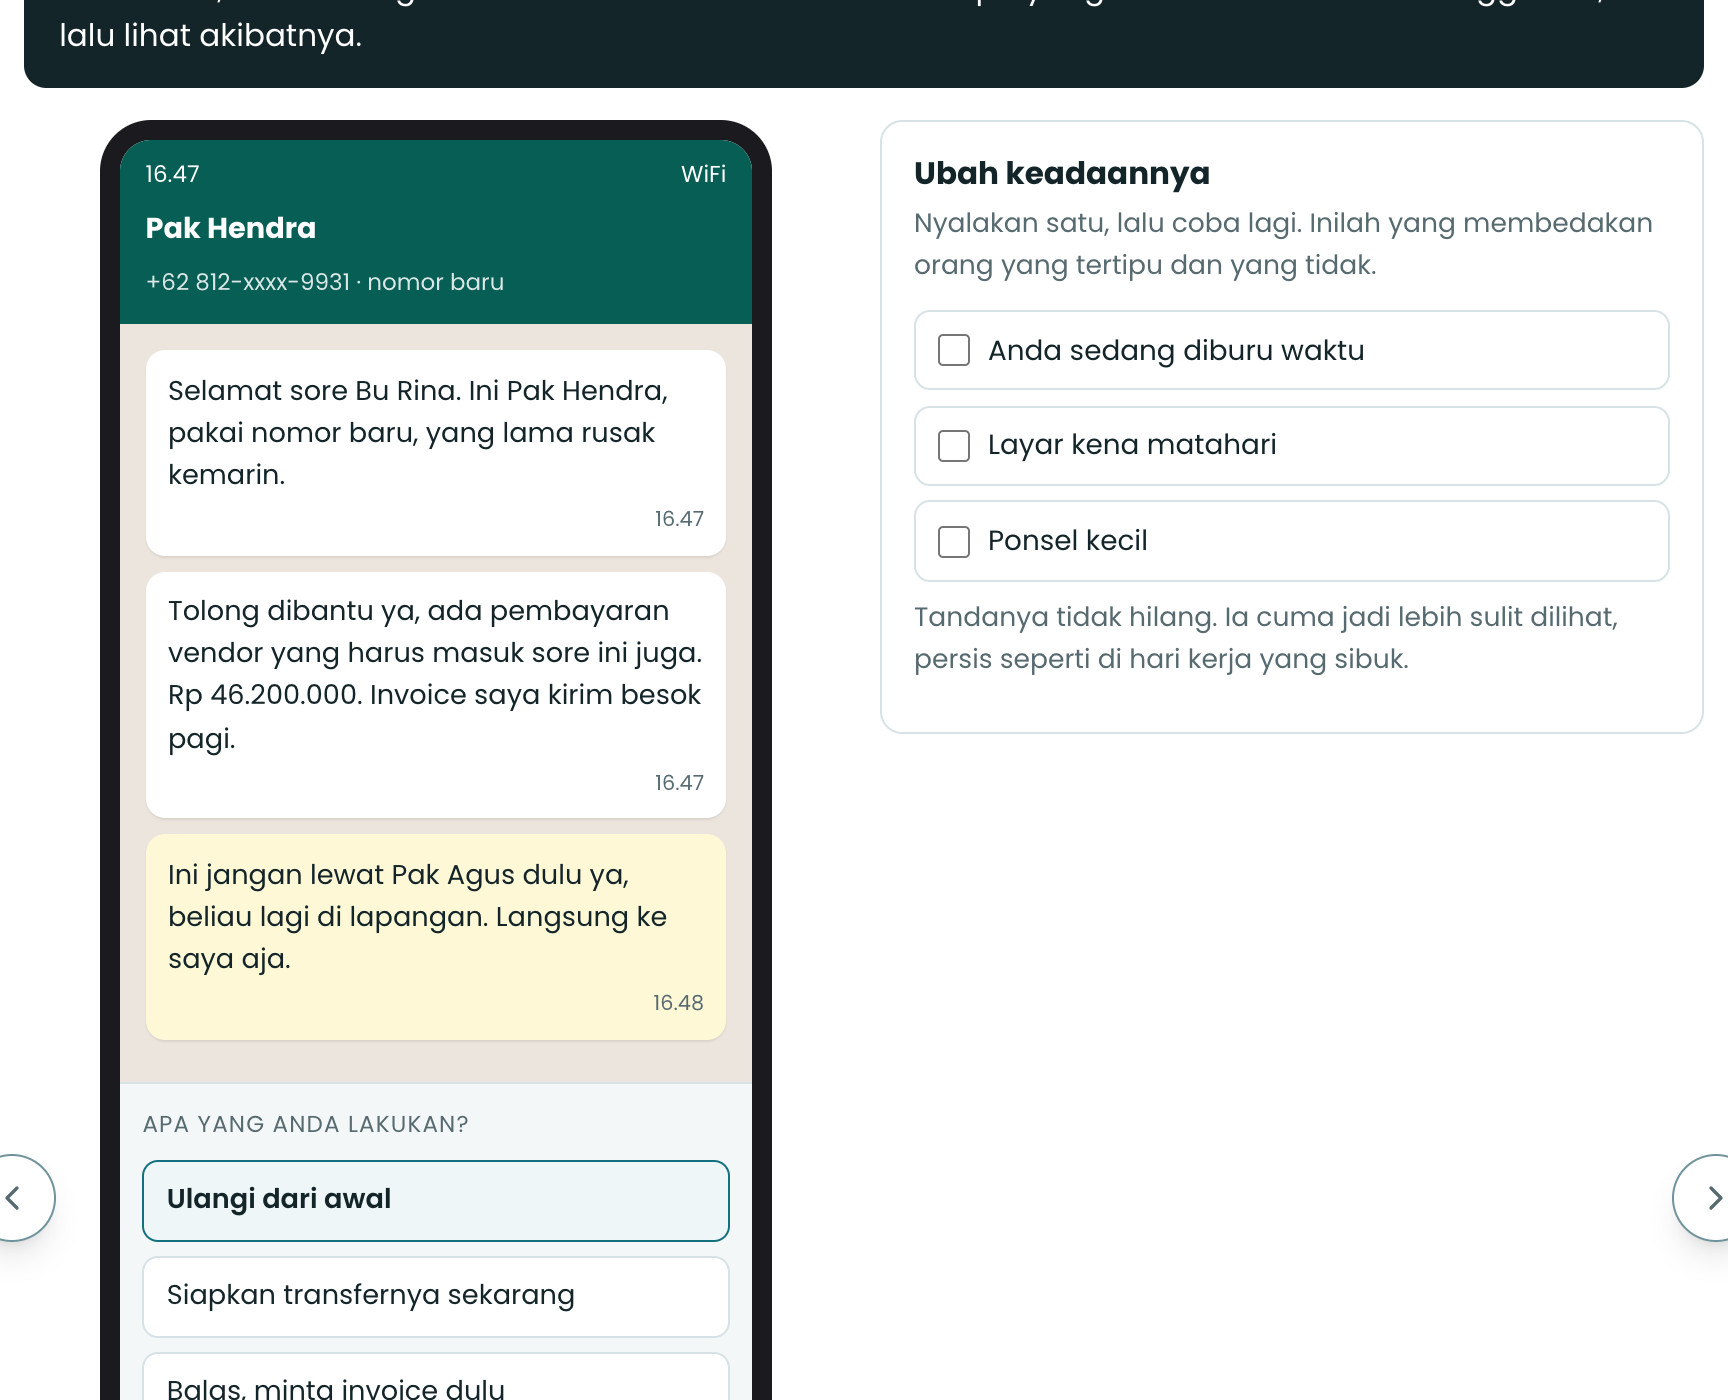
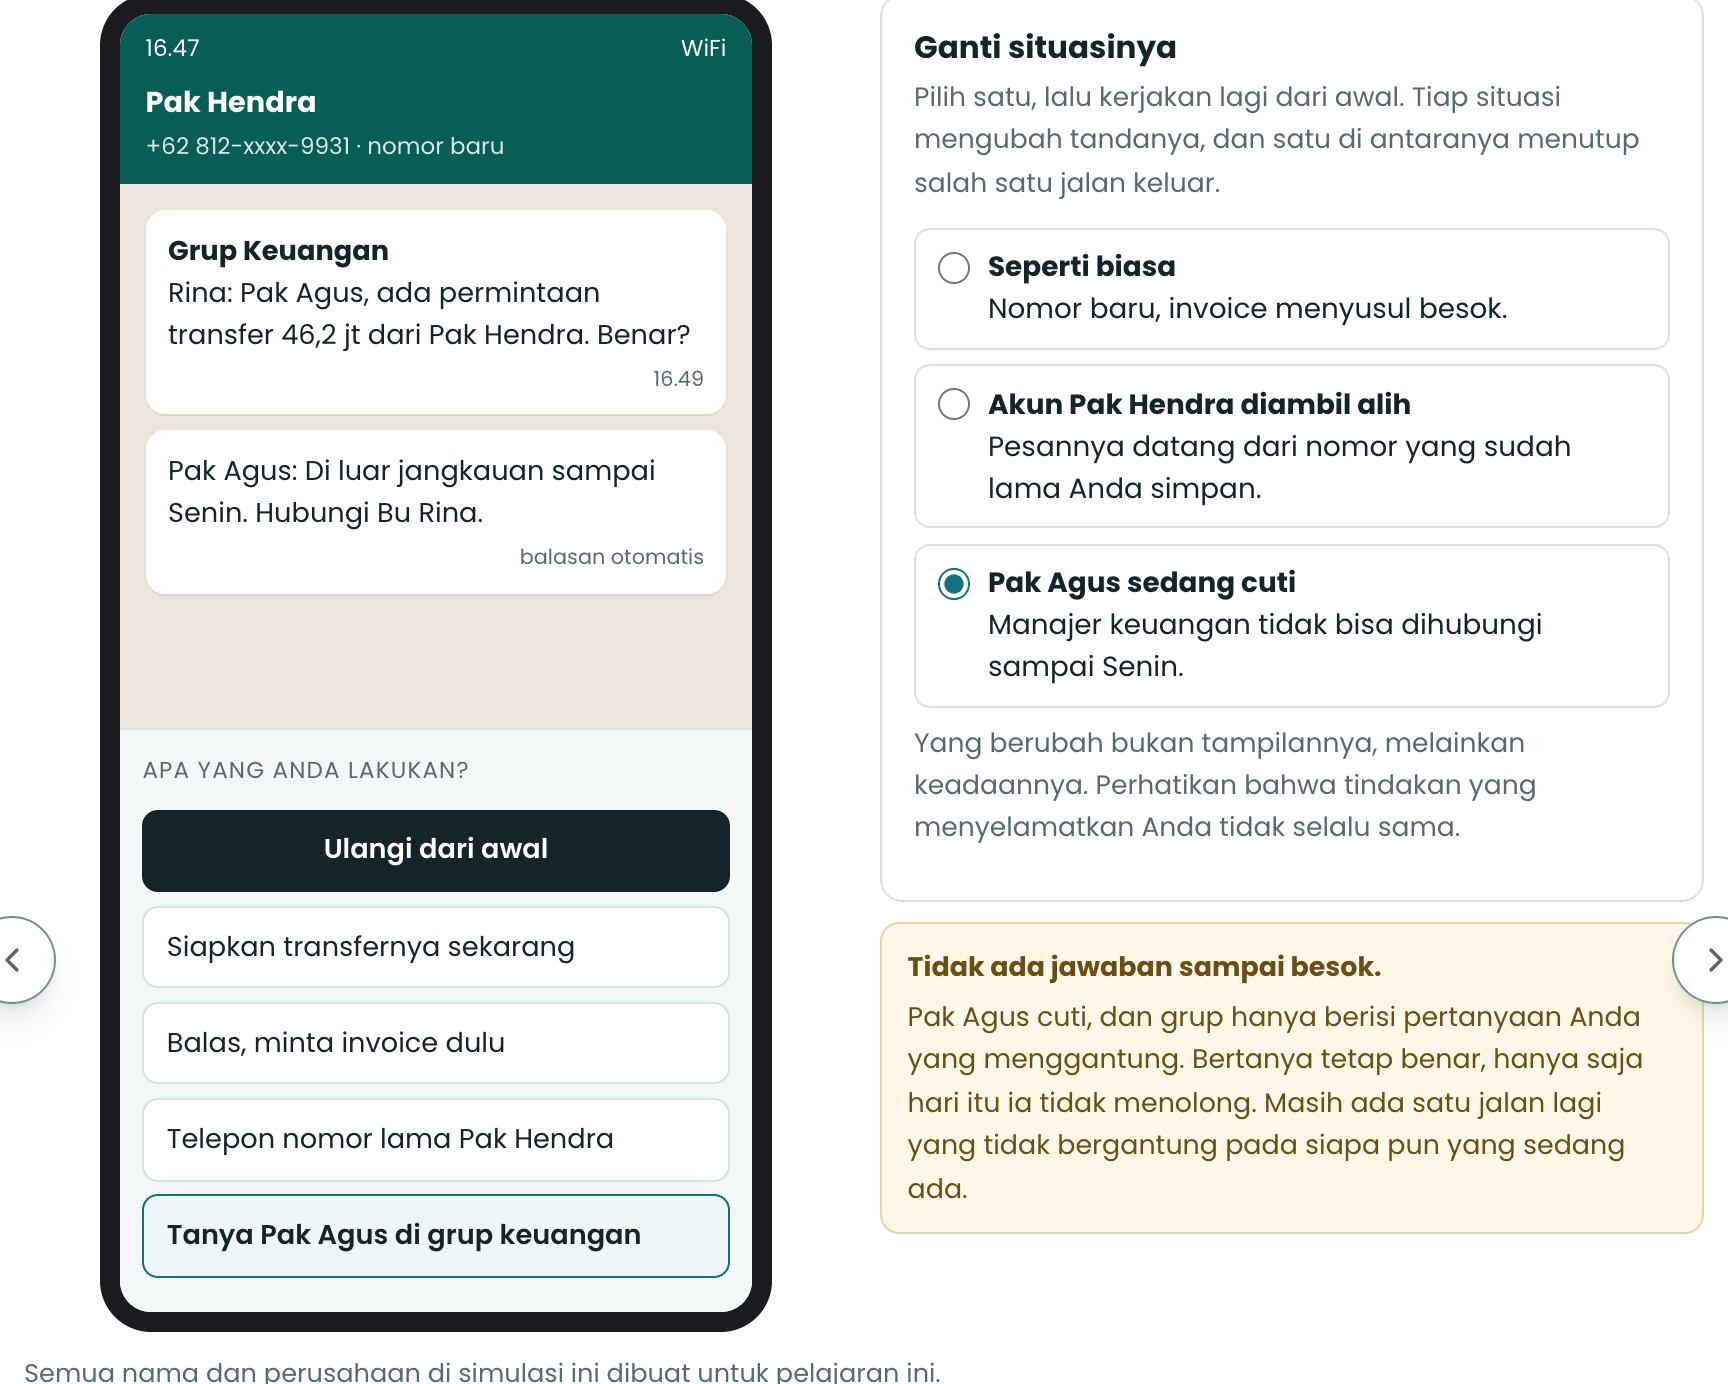
Varian simulasi harus mengubah keputusan, bukan tampilan (#19)
Pemilik bertanya apakah panel "Ubah keadaannya" itu nyambung, atau seharusnya
fokus ke cara peserta menjawab. Pertanyaannya tepat, dan jawabannya: tidak
nyambung.

Di acuan (aion-ux-lab), stress test memang load-bearing karena tugasnya soal
PERSEPSI -- pertanyaannya "masih bisakah Anda menyelesaikan tugas kalau
layarnya sulit dibaca", dan waktu serta salah-tekan ikut berubah. Pelajaran
kita soal PENILAIAN. Nyalakan ketiga tombol tadi -- diburu waktu, layar kena
matahari, ponsel kecil -- lalu jawab: hasilnya sama persis. Panel itu mengubah
piksel, bukan keputusan. Bentuknya ditiru tanpa fungsinya.

Ketiganya diganti varian situasi, dan tiap varian benar-benar mengubah jalan
keluarnya:

  Seperti biasa            nomor baru, invoice menyusul
  Akun Pak Hendra diambil  pesan datang dari nomor TERSIMPAN; tanda "nomor
  alih                     baru" hilang, tetapi menelepon tetap menyelamatkan
                           karena telepon jalur yang berbeda dari chat
  Pak Agus sedang cuti     bertanya di grup TIDAK menolong hari itu; hanya
                           menelepon yang tersisa

Diuji seluruh matriksnya, 3 varian kali 4 tindakan: tiap kombinasi menampilkan
tepat satu akibat, dan dua kombinasi memang berbeda dari lainnya.

Satu hal yang hanya ketahuan dengan mengklik: di varian "Pak Agus cuti", layar
telepon masih memperlihatkan Pak Agus membalas, padahal keterangan di
sebelahnya berkata tidak ada jawaban sampai besok. Layarnya membantah
[…]

diff --git a/lib/interactive-guide.ts b/lib/interactive-guide.ts
@@ -267,10 +267,18 @@ Isinya:
   "benar" atau "salah".
 - Sediakan tombol "Ulangi dari awal". Caranya: satu radio tambahan dengan
   atribut checked yang menampilkan layar awal.
-- Tambahkan dua sampai tiga KEADAAN yang bisa dinyalakan dan benar-benar
-  mengubah tampilannya: sedang diburu waktu, layar kena matahari, ponsel
-  kecil. Pakai filter CSS, lebar yang mengecil, atau pesan tambahan yang
-  menutupi. Tandanya jangan dihilangkan, cukup dibuat lebih sulit dilihat.
+- Tambahkan dua sampai tiga VARIAN SITUASI yang bisa dipilih, dan pastikan
+  tiap varian mengubah KEPUTUSANNYA, bukan hanya tampilannya. Ujilah begini:
+  kalau tindakan yang menyelamatkan tetap sama di semua varian, variannya
+  tidak mengajarkan apa-apa dan lebih baik dihapus.
+- Cara membuat varian yang berguna: hilangkan satu tanda yang tadinya
+  menolong, atau tutup salah satu jalan keluar. Contoh pada kasus penipuan:
+  pesannya datang dari nomor yang tersimpan, atau orang yang biasa dimintai
+  konfirmasi sedang cuti.
+- JANGAN membuat varian yang hanya mengaburkan layar, menurunkan kontras,
+  atau mempersempit lebar, kecuali pelajarannya memang tentang keterbacaan.
+  Pada pelajaran yang melatih penilaian, varian seperti itu terlihat canggih
+  tetapi tidak mengubah jawabannya sama sekali.
 - Sertakan juga satu bagian buka-tutup untuk penjelasan yang panjang.
 - Tutup dengan daftar periksa berisi tiga pernyataan yang bisa dicentang
   peserta sendiri.

diff --git a/app/admin/courses/panduan-interaktif/page.tsx b/app/admin/courses/panduan-interaktif/page.tsx
@@ -116,7 +116,17 @@ export default async function PanduanInteraktifPage() {
         <p>
           Tiga hal yang membuatnya terasa hidup: satu <strong>tugas</strong> yang jelas di awal,
           <strong> akibat</strong> yang berbeda untuk tiap tindakan, dan beberapa{" "}
-          <strong>keadaan</strong> yang bisa dinyalakan dan benar-benar mengubah tampilannya.
+          <strong>varian situasi</strong> yang bisa dipilih.
+        </p>
+        <p>
+          Varian itu ada ujiannya, dan mudah gagal. <strong>Kalau tindakan yang menyelamatkan
+          tetap sama di semua varian, variannya tidak mengajarkan apa-apa.</strong> Varian yang
+          baik menghilangkan satu tanda, atau menutup salah satu jalan keluar.
+        </p>
+        <p>
+          Versi pertama simulasi di atas punya tombol untuk mengaburkan layar dan menurunkan
+          kontras. Terlihat canggih, dan tidak ada gunanya: jawaban yang benar tetap sama. Varian
+          seperti itu hanya pantas kalau pelajarannya memang tentang keterbacaan.
         </p>
         <p>
           Satu hal yang tidak bisa: penghitung waktu dan penghitung salah-tekan. Keduanya menuntut

diff --git a/CLAUDE.md b/CLAUDE.md
@@ -192,7 +192,7 @@ v2 (`docs/V2-UPGRADE.md`) brought the app in line with `docs/STANDAR-DIGITAL-LEA
 - **Quiz explanations** live in `public.question_explanations` (migration `20261028000000_question_explanations.sql`, `databaseSetup.sql` section 15), deliberately not a `questions` column: RLS is row-level and `questions` is readable by anyone who can read the course, so a column would leak the explanation (often the answer) before the quiz. A learner can read a row only after a submitted attempt for that quiz; `submitQuiz` returns them in `SubmitQuizResult.explanations`. Admin side: `AdminQuestion.explanation`, `DraftQuestion.explanation` (zod default `""` so v1 localStorage drafts still parse), diffed and upserted in `saveCourseDraft`.
 - **Lesson notes ("Catatan saya")** live in `public.lesson_notes` (migration `20261029000000_lesson_notes.sql`, `databaseSetup.sql` section 16), one row per `(learner_id, lesson_id)`, max 20,000 chars (`NOTE_MAX_LENGTH` in `lib/notes.ts` mirrors the DB check). **Private to the learner by design:** every policy is own-row (`learner_id = auth.uid()`), insert/update also require an enrollment in the lesson's course, and there is deliberately **no admin/superadmin read policy** (personal study material, not assessment evidence; don't add one for a "learner insights" screen without a product/privacy decision). Code: `lib/notes.ts` (client-safe type/format helpers), `lib/notes-server.ts` (`getLessonNote`, `getCourseNotes`), `saveLessonNote` in `app/learn/[courseId]/notes-actions.ts` (zod-validated upsert; empty content deletes the row), `components/learn/LessonNotes.tsx` (autosave ~800 ms + on blur, serialized saves, `aria-live` status, "Coba lagi" on error without losing text, flush on unmount; rendered by `LessonPane` via its `note` prop for content lessons in learner mode only) and `components/learner/CourseNotes.tsx` on `/learner/courses/[id]` for enrolled learners.
 - **`supabase/seed/03-kursus-acuan.sql` is the reference course** — "Mengenali Penipuan Digital di Tempat Kerja", one module, five lessons across four content types (text, text-as-story, two `interactive`, quiz). It exists to show what a well-designed course looks like in this LMS, so it is a **real published course, not demo data**: its slug has no `kursus-demo-` prefix, which is what keeps `/api/public/stats` from flagging it `is_demo`. It also introduced the `keamanan-kepatuhan` category. `sequential` is deliberately **false** even though the content genuinely builds in order — with lesson locking on, anyone shown the course sees padlocks on lessons 3 and 4, which are the two worth looking at. The HTML stored in `lessons.content` is already **clean** (text through `sanitizeRichText`, interactive through `bersihkanMateriInteraktif`); raw files must never enter that column, seed included.
-  - **An `interactive` lesson should be a simulation, not a quiz with styling.** The distinction is the whole point of the type: in a quiz the learner answers questions *about* the material; in a simulation they perform a task *inside* a mock screen and see the consequence. The reference course's lesson 3 was first built as dressed-up multiple choice and rebuilt as an operable one — a mock phone where each action swaps the screen and tells a different outcome, plus togglable conditions (in a hurry, screen in sunlight, small phone) that genuinely degrade legibility via CSS filters and narrowed width. If the material is really just questions, use the `quiz` type: simpler, and the score is recorded. `PERINTAH_AI` in `lib/interactive-guide.ts` now asks for exactly this, since what that prompt teaches is what the team will produce.
+  - **An `interactive` lesson should be a simulation, not a quiz with styling.** The distinction is the whole point of the type: in a quiz the learner answers questions *about* the material; in a simulation they perform a task *inside* a mock screen and see the consequence. The reference course's lesson 3 was first built as dressed-up multiple choice and rebuilt as an operable one — a mock phone where each action swaps the screen and tells a different outcome, plus selectable **situation variants**. Those variants have a test that is easy to fail: **if the saving action is the same under every variant, the variant teaches nothing.** The first build had "in a hurry / sunlight / small phone" toggles copied from the reference — they changed contrast and width and left the right answer identical. They now change the *situation* instead: one removes the "new number" tell (the account is taken over, so calling still works but for a different reason), another closes a route entirely (the finance manager is on leave, so asking the group no longer helps that day). Cosmetic degradation is only right when the lesson is itself about legibility — which is why it works in the reference, whose subject is perception. If the material is really just questions, use the `quiz` type: simpler, and the score is recorded. `PERINTAH_AI` in `lib/interactive-guide.ts` now asks for exactly this, since what that prompt teaches is what the team will produce.
   - **A live timer and a wrong-tap counter cannot be built** — both need JavaScript, which this type does not have. Everything else in a task-and-consequence simulation can.
   - A CSS trap this course hit, worth knowing before writing interactive material: the sibling combinator `~` requires the radio and its feedback to be **actual siblings**. Wrapping the radios in a layout `<div>` silently breaks every rule — the CSS stays valid, matches nothing, and no sanitiser or type check can see it. Use `:has()` on the container instead (`.soal:has(#b1:checked) .u1benar`), which does not care about nesting. Only clicking the control in a browser catches this.
 - **The a11y gate opens the lesson card** (`scripts/a11y-audit.mjs`). While a lesson card is collapsed, the whole content panel — type picker, rich text editor, interactive upload — is not in the DOM, so axe reported the Lessons tab clean without ever seeing it. The interactive upload's file input had no accessible name and that `label` violation passed the gate repeatedly. The audit now expands the **last** Buka/tutup button (module toggles come first in the DOM; pressing the first one collapses the module and hides its lessons) and audits both `[pelajaran terbuka]` and `[materi interaktif]`. 91/91.
